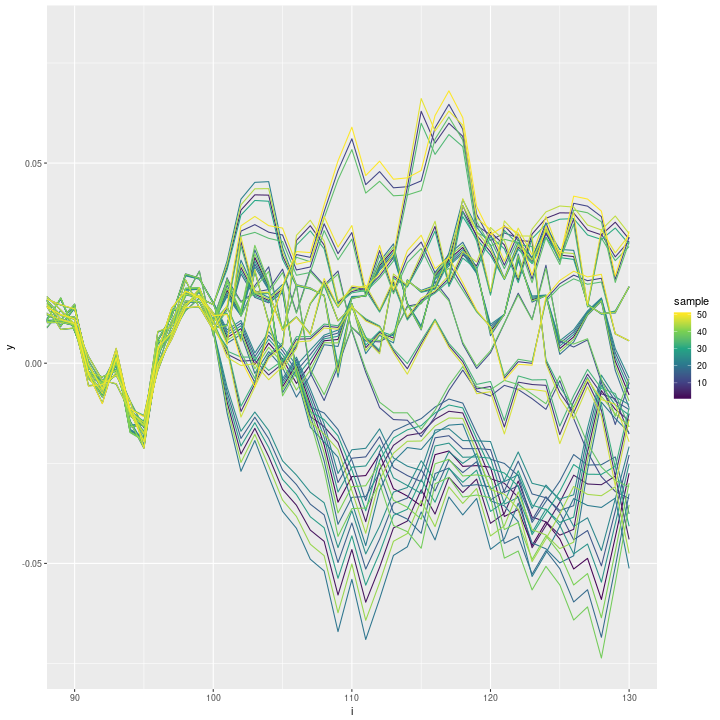
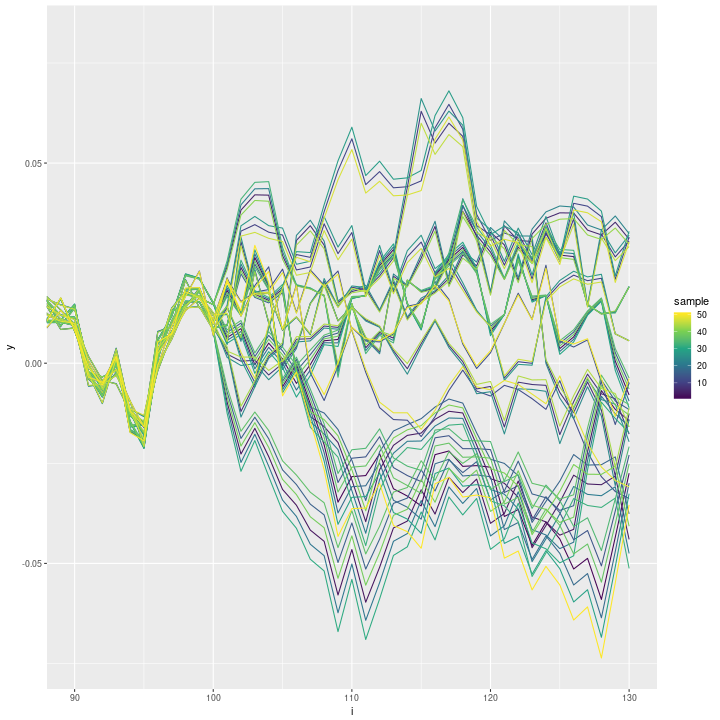
added comment on fixed seed

Changed region(s): [[0.2139, 0.1222, 0.8861, 0.9167], [0.0611, 0.3972, 0.2139, 0.6111], [0.55, 0.4889, 0.5806, 0.5194]]

diff --git a/sampler-problem.md b/sampler-problem.md
@@ -73,5 +73,30 @@ A lot of thinning will be necessary to get pseudo-independent samples.
 I am wondering if there are options I could set to improve the sampler? 
 
 
+## Avoiding the `seed` argument in `inla.posterior.sample`
 
+The near-perfect correlation of the posterior predictive samples seems to disappear when I remove the `seed` argument in `inla.posterior.sample`:
+
+
+```r
+# posterior predictive samples
+n_sampls = 50
+set.seed(321)
+inla_sampls_noseed = inla.posterior.sample(n=n_sampls, result=inla_result) 
+
+# extract "Predictor" output
+i_pred = str_c('Predictor:', str_pad(1:n, 3, 'left', '0'))
+inla_sampls_noseed = inla_sampls_noseed %>% 
+  setNames(1:n_sampls) %>%
+  map_df( ~ .x$latent[i_pred,1]) %>%
+  mutate(i = 1:n) %>%
+  gather(key='sample', value='y', -i) %>%
+  mutate_if(is.character, as.integer)
+
+# plot predictive samples
+ggplot(data=inla_sampls_noseed, aes(x=i, y=y, group=sample)) + geom_line(aes(colour=sample)) +
+  scale_colour_continuous(type='viridis') + coord_cartesian(xlim=c(90, n))
+```
+
+![plot of chunk inla-rw1-noseed](figure/sampler-problem/inla-rw1-noseed-1.png)
 
